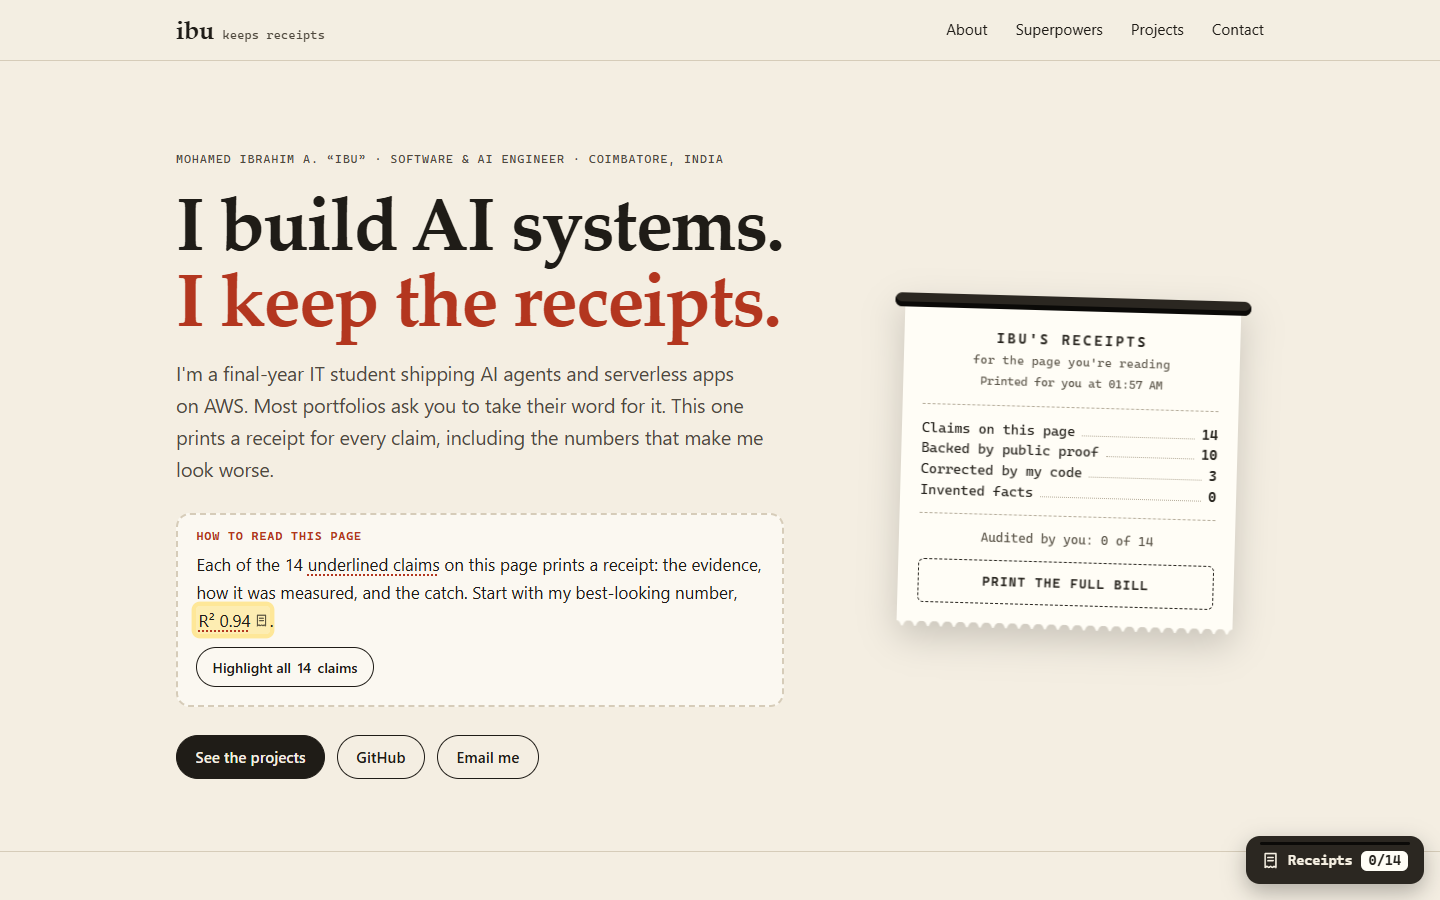
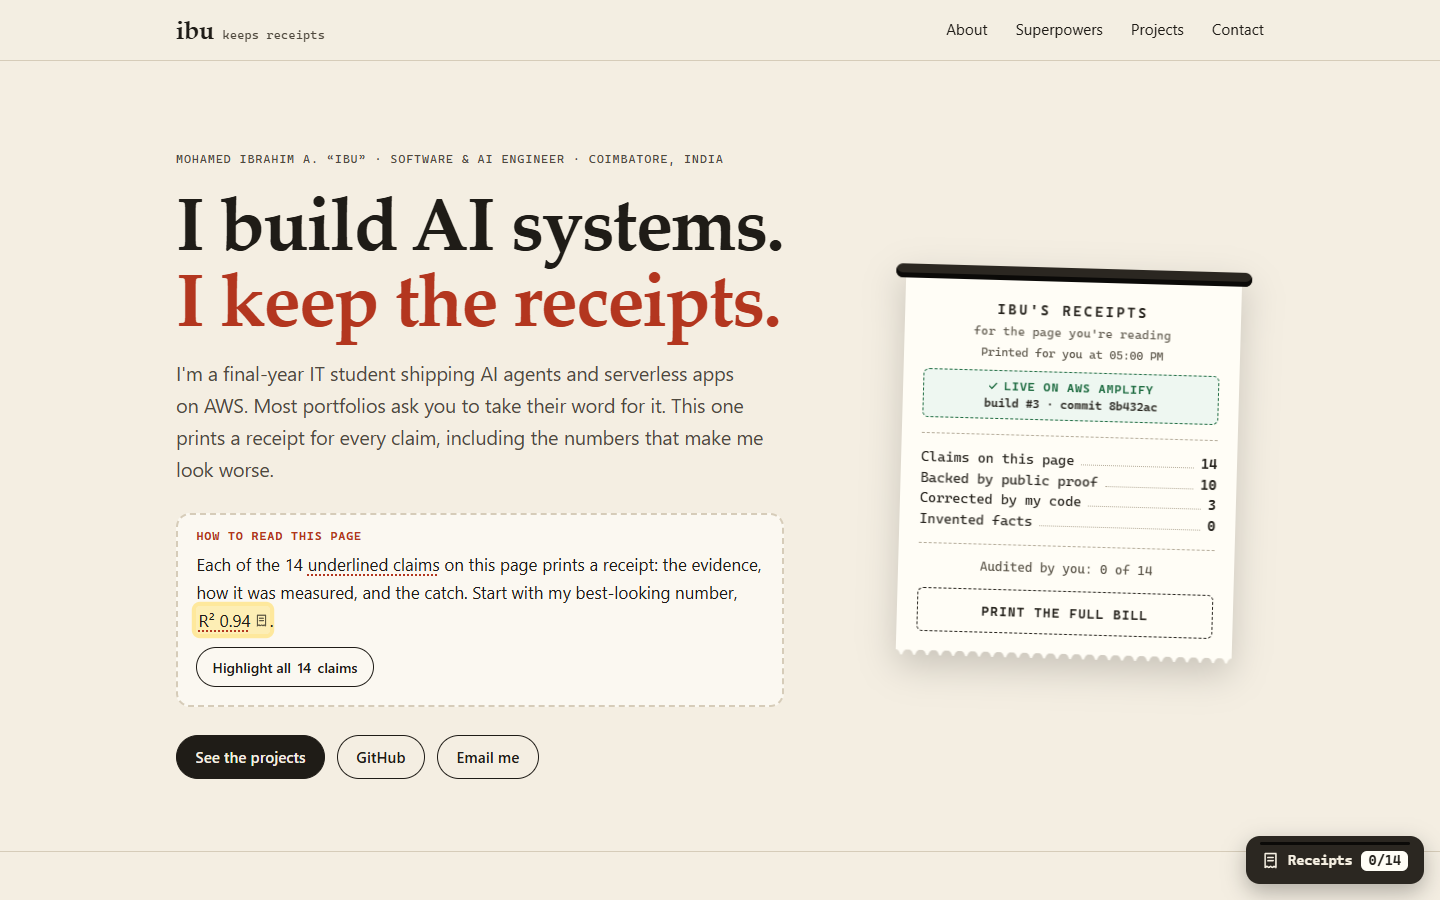
Refresh hero screenshot for build #3; document [skip-cd] [skip-cd]
Screenshot-only commits don't change the site, so they skip the Amplify
build and the live receipt keeps matching the screenshots.

Changed region(s): [[0.625, 0.28, 0.875, 0.7467]]

diff --git a/SCREENSHOTS.md b/SCREENSHOTS.md
@@ -4,6 +4,14 @@ Save each one as a PNG in `docs/screenshots/` with exactly this filename. README
 
 **Status (Oct 28):** website shots **#8–14 are captured** from the live site (headless Chrome, light mode; desktop 1440×900, phone 360×740 at 2×). **AWS shots #1–7 are still to do**, because only you can sign in to the console.
 
+**Keep the build numbers consistent.** Screenshot-only pushes don't change the site, so end their commit message with `[skip-cd]`. Amplify then skips the build, and the live receipt keeps showing the same build as your console screenshots:
+
+```bash
+git add docs/screenshots
+git commit -m "Add AWS setup screenshots [skip-cd]"
+git push
+```
+
 **How to capture**
 - Windows: **Win + Shift + S** → rectangle, then paste into Paint and save as PNG. For a whole page in Chrome: DevTools (**F12**) → **Ctrl + Shift + P** → type `screenshot` → **Capture full size screenshot**.
 - Phone sizes: Chrome DevTools → **Toggle device toolbar** (**Ctrl + Shift + M**) → width **360** or **390**.
@@ -20,7 +28,7 @@ Save each one as a PNG in `docs/screenshots/` with exactly this filename. README
 | 4 | `04-amplify-build-settings.png` | Amplify → Hosting → **Build settings** | The `amplify.yml` content: `bash scripts/stamp-build.sh`, `baseDirectory: site` |
 | 5 | `05-amplify-domain.png` | Amplify → Hosting → **Custom domains** (or Domain management) | The default `main.<id>.amplifyapp.com` domain with HTTPS / *Available* status |
 | 6 | `06-budget.png` | Billing and Cost Management → **Budgets** | `ibu-receipts-guard`, $5 budget, actual spend near $0 |
-| 7 | `07-site-receipt-vs-console.png` | Two windows side by side: the live site with the footer receipt open (`https://main.d1nj3qfdmf673t.amplifyapp.com/#r-site`), and the page for the **latest** build in Amplify | The **same build number and commit** in both. This is the strongest single image in the submission. Take it last, after your final push has deployed. |
+| 7 | `07-site-receipt-vs-console.png` | Two windows side by side: the live site with the footer receipt open (`https://main.d1nj3qfdmf673t.amplifyapp.com/#r-site`), and the page for the **latest** build in Amplify | The **same build number and commit** in both. This is the strongest single image in the submission. |
 
 ## The live portfolio (proves completeness and usability)
 
